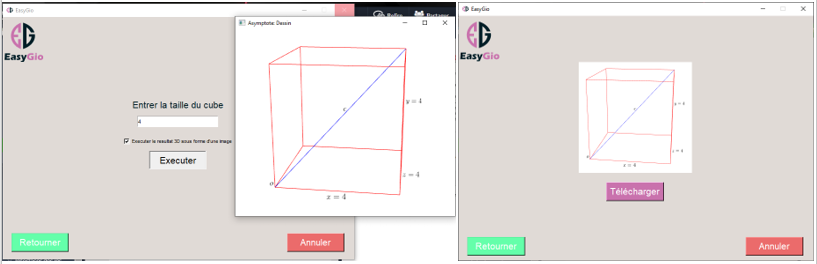
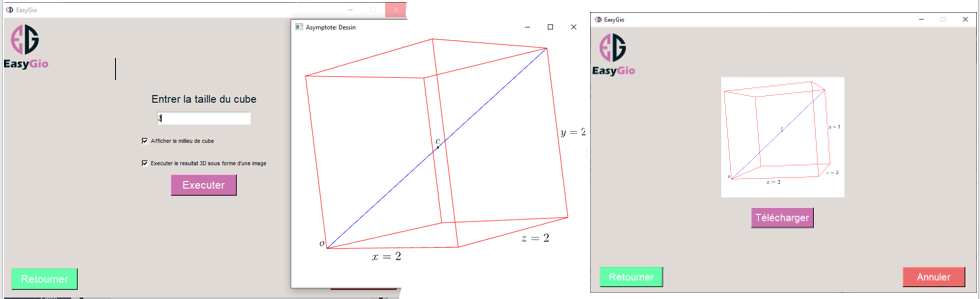
Last version

diff --git a/main.tex b/main.tex
@@ -5,6 +5,7 @@
 \usepackage{graphicx} 
 \usepackage{fullpage}
 \usepackage{hyperref}
+\usepackage{tabularx}
 \usepackage{xcolor}
 \newcommand{\link}[1]{{\color{blue}\href{#1}{#1}}}
 \usepackage{array,multirow,makecell}
@@ -43,7 +44,7 @@ Autour du langage de dessin vectoriel asymptote} \\[0.4cm]
 \end{minipage}
 \vfill
 % Bottom of the page
-{\large 12/04/2021}
+{\large Année universitaire 2020/2021}
 \end{center}
 \end{titlepage}
 \begin{figure}
@@ -226,30 +227,101 @@ emissivepen=black specularpen=black));}\\
     \includegraphics{images/Des6.png}
 \end{center}
 \newpage
-\section{Cadre de projet}
-\subsection{Objectifs du projet}
+\section{La démarche de projet}
+\subsection{Préparation et analyse}
+Notre objectif principale de ce projet est d'aider les élèves du lycée et leurs enseignant à illustrer les notions de géométrie et surtout dans l'espace.\\
+Aujourd'hui des nombreux écoles sont fermées, et tous les cours en salle de classe ont été transférés en ligne, dans le cadre des mesures visant à contenir tout danger de propagation du COVID-19. Donc, l’enseignement en ligne est une précaution importante pour s’assurer de limiter les possibilités de transmission du virus. C’est la période de l’école à la maison pour de nombreux enfants. C’est-à-dire, que chaque famille a accès aux ressources en ligne : des exercices et même des «classes virtuelles» en visioconférence.\\
+Les enseignants utilisent les ordinateurs pour préparer des présentations ou des lectures. Les ordinateurs sont utilisés pour effectuer des exercices ou diriger des examens. Dans le domaine de la recherche les ordinateurs sont utilisés pour accéder aux journaux, aux conférences et aux travaux des recherches tenues dans le monde entier.\\
+Et pour que notre application soit utile, pratique et accessible, EasyGio doit être sous forme d'une application bureau pour faciliter à l'enseignant ou l'élève l'utilisation de note application. 
+\subsection{Définition des objectifs}
+Pour que notre application soit utile, les objectifs d'EasyGio doivent être « SMART », à savoir :
+\begin{itemize}
+    \item[$\bullet$] \textbf{Spécifique : }Crée une application rapide, simple et très accessible qui permet à l'utilisateur de tracer des courbes, des graphe 2D sous Image PNG et des figures en 3D.
+    \item[$\bullet$] \textbf{Mesurable : }Avec la technologie Git Il était possible de mesurer notre avancement jusqu'à la réalisation complète de notre application EasyGio.
+    \item[$\bullet$] \textbf{Acceptable : }l’objectif était suffisamment complexe pour être motivant et suffisamment petit pour être atteignable et accepté.
+    \item[$\bullet$] \textbf{Réaliste : }Malgré les difficultés de ce projet et en particulier le fait de traiter un sujet d’actualité avec peu de documentation, nous sommes parvenues à nous familiariser avec ces nouvelles technologies liées au Asymptote
+    \item[$\bullet$] \textbf{Temporellement définit : }Notre objectif était bien défini dans le temps après quant a pu fixer une date butoir est indispensable pour pouvoir mesurer l’avancement de la réalisation.
+\end{itemize}
+\subsection{Conception et spécifications}
+\subsubsection{Contexte pédagogique}
+Ce travail s'inscrit dans le cadre du Projet de Fin d'Étude pour l'obtention du diplôme de l'École Supérieur de Technologie Safi, filière Génie Informatique. Au cour de la réalisation de notre projet, nous étions indispensable de mettre en place nos compétences acquises tout long de notre parcours académique pour parvenir à résoudre efficacement les problèmes obtenu à travers des solutions pratique répondant aux besoins de notre sujet du PFE.
+\subsubsection{Acteurs du projet}
+\begin{table}[!h]
+    \centering
+    \begin{tabularx}{0.9\textwidth}{
+    | >{\centering\arraybackslash}X 
+    | >{\centering\arraybackslash}X |}
+    \hline
+        \textbf{Acteur}&\textbf{Fonction}\\
+    \hline
+        Maitre d'oeuvre 1 : El Mehdi El Aine & Etudiant à EST safi\\
+    \hline    
+        Maitre d'oeuvre 2 : Hamza Hamdoun & Etudiant à EST safi\\
+    \hline
+        Maitre d'oeuvre 3 : Abdrahman El Hadere & Etudiant à EST safi\\
+    \hline
+        Encadrant pédagogique & Mr.Hamid Maarouf\\
+    \hline 
+        Tuteur & Lbakali Hanane\\
+    \hline    
+    \end{tabularx}
+    \caption{Les Acteurs du projet}
+    \label{tab: Les Acteurs du projet}
+\end{table}   
+\newpage
+\subsubsection{Expression du besoin}
 Ce projet vise principalement à améliorer un service qui aide les élèves du lycée et leurs enseignant à illustrer les notions de géométrie. L’objectif de ce projet est de déployer une application Windows qui se caractérise par une haute disponibilité ,une simplicité et la multiplication des choix.Par conséquence cela revient à déployer une application EasyGio qui répond aux exigences suivants:
 \begin{itemize}
     \item Faciliter l'utilisation de l'application EasyGio pour le client.
     \item Éviter les tâches répétitives et faciliter la personnalisation EasyGio.
     \item Inclure des multiples fonctions pour la conceptions des différents figures.
-    \item Conception d'une interface graphique simple et facile à utiliser.\\
+    \item Conception d'une interface graphique simple et facile à utiliser.
 \end{itemize}
 \begin{figure}[!h]
     \centering
-    \includegraphics[width=13cm]{images/EasyGioServices.png}
-    \caption{Processus souhaité de déploiement des services EasyGio}
-    \label{fig:Processus souhaité de déploiement des services EasyGio}
+    \includegraphics[width=14cm]{images/Expression du besoin.png}
+    \caption{Diagramme bête à cornes}
+    \label{fig:Diagramme bête à cornes}
 \end{figure}
-\subsection{Planification du projet}
+\subsubsection{Contraintes à respecter}
 Notre projet est loin d’être classique. En effet, il fait appel aux technologies non abordées le long de notre parcours scolaire. Du coup, une planification rigoureuse s’est imposée pour prévoir le déroulement du projet. Grâce aux réunions tenues avec notre encadrante , nous avons été éclairés sur les différentes étapes du projet ainsi que leurs séquencements. Le projet est partagé en trois grandes étapes : la première est une phase de documentation dont les objectifs est de bien assimiler les nouveaux concepts concernant les langages de programmation Asymptote et Python, d’autre part de délimiter le périmètre du projet au niveau
 fonctionnel qu’au niveau technique. La seconde partie est consacrée à la conception de la solution, quant à la troisième étape, elle traite la mise en œuvre de la solution à travers la réalisation, les tests, et le déploiement.\\
-Le projet a débuté le 1 mars pour une durée de 3 mois. Il en résulte le planning suivant :
+Notre projet doit être exécuter et fournit tout en tenant compte des contraintes qui doivent être anticipés afin d'être gérées et déposées pour ne pas bouleverser le bon déroulement du projet
+\begin{itemize}
+    \item[$\bullet$] \textbf{Contraintes temporelles : }Contrainte majeure qui réside dans la durée nécessaire pour achever notre projet vu la diversité des taches qui sont affectées.\\
+    Le projet a débuté le 1 mars pour une durée de 3 mois. Il en résulte le planning suivant :
+\end{itemize}
+\newpage
 \begin{figure}[!h]
     \centering
-    \rotatebox{-90}{\includegraphics[width=23cm]{images/Ganter.png}}
+    \rotatebox{-90}{\includegraphics[width=22cm]{images/Ganter.png}}
     \caption{Diagramme de Gantt}
     \label{fig:Diagramme de Gantt}
+\end{figure}
+\newpage
+\renewcommand{\labelitemi}{\textbullet}
+\renewcommand\labelitemii{\textperiodcentered}
+\begin{itemize}
+    \item \textbf{Contraintes de réalisation : }
+    \begin{itemize}
+        \item Le respect de la période fixée pour la finalisation du projet.
+        \item Le travail réalisé dans chaque partie doit être valider par notre tuteur. 
+    \end{itemize}\smallskip
+    \item \textbf{Contraintes pédagogiques : }
+    \begin{itemize}
+        \item Appliquer les techniques et méthodes en informatique ainsi que la gestion de projet. 
+        \item Apprendre d'être autonomes dans la réalisation d'un projet.
+        \item Apprendre à collecter les information nécessaire au déroulement du projet.
+    \end{itemize}    
+\end{itemize}
+\subsection{Réalisation et Évaluation}
+A la fin du notre projet on a obtenu une application EasyGio rapide simple et très accessible qui permet l’utilisateur de tracer des courbes, des graphe 2D sous Image PNG et des figures en 3D avec la possibilité de le transférer sous Des images PNG après que le client à bien sélectionner la position d’image voulu. Et à la fin de la session l’utilisateur peut transfère son image à son PC en le télécharger après la sélection de l’emplacement du ficher.\\
+Après Des multiples tests par des différents utilisateurs on a bien corrigé tout les bug obtenu sous nos tests.
+\begin{figure}[!h]
+    \centering
+    \includegraphics[width=14cm]{images/EasyGioServices.png}
+    \caption{Les services proposés par EasyGio}
+    \label{fig:Les services proposés par EasyGio}
 \end{figure}
 \chapter{Conception et réalisation}
 \section{Diagramme des cas d'utilisations}
@@ -299,8 +371,8 @@ Une structure de répartition du travail (WBS) est une dé-construction visuelle
 \begin{figure}[!h]
     \centering
     \includegraphics[width=15cm]{images/WBS.png}
-    \caption{WBS diagram}
-    \label{WBS diagram}
+    \caption{WBS diagramme}
+    \label{WBS diagrammme}
 \end{figure}
 \newpage
 \section{Environnements de travail et choix techniques}
@@ -313,7 +385,7 @@ Les principaux logiciels utilisé durant la conception d'EasyGio sont:
     \item  \textbf{Microsoft Office :} World 2019 pour la rédaction du cahier des charges.
     \item  \textbf{Gantter project :} Pour la rédaction du diagramme gant.
     \item  \textbf{Adobe :} utilisé pour le traitement des images utilisées tout le long du projet que ce soit dans la conception du logo dans le rapport élaboration du cahier de charge ou le développement de l’application.
-    \item  \textbf{Draw.io:} Pour la rédaction des différents diagrammeS et organigrammes pour le rapport.
+    \item  \textbf{Draw.io:} Pour la rédaction des différents diagrammes et organigrammes pour le rapport.
 \end{itemize}
 \subsection{Langage de programmation et technologies utilisés}
 Durant notre travail, on a utiliser plusieurs outils et technologies :
@@ -337,7 +409,7 @@ On a utilisé la bibliothèque Tkinter pour la conception d'interface graphique 
     \label{Tkinter}
 \end{figure}
 \subsubsection{OS}
-Le module OS de Python fournit des fonctions d'interaction avec le système d'exploitation. Le système d'exploitation relève des modules utilitaires standard de Python. Ce module offre un moyen portable d'utiliser les fonctionnalités dépendant du système d'exploitation. Les modules "os" et "os.path" incluent de nombreuses fonctions pour interagir avec le système de fichiers.\\
+Le module OS de Python fournit des fonctions d'interaction avec le système d'exploitation. Le système d'exploitation relève des modules utilitaires standard de Python. Ce module offre un moyen portable d'utiliser les fonctionnalités dépendant du système d'exploitation. Les modules "os" et "os.path" incluent de nombreuses fonctions pour interagir avec le système de fichiers.
 \subsubsection{Time}
 Le module Time fournit différentes fonctions liées au temps.On a utilisé ce module pour la fonction time.sleep(), cette fonction permet au programme d'obtenir un retard de temps jusqu'à le fichier Dessin.asy s'exécute en donnant l'image Dessin.png a afficher sur dernier interface du programme. 
 \newpage
@@ -347,9 +419,18 @@ La bibliothèque supporte plusieurs formats de fichier, parmi lesquels PNG, JPEG
 On a utilisé cette bibliothèque pour le traitement et l'affichage des images sur notre application EasyGio ,l'affichage du logo sur les différents pages d'EasyGio et l'affichage du résultat à la fin d'exécution du programme Dessin sous PNG.
 \begin{figure}[!h]
     \centering
-    \includegraphics[width=10cm]{images/pillow-logo-248x250.png}
+    \includegraphics[width=7cm]{images/pillow-logo-248x250.png}
     \caption{Pillow}
     \label{fig:Pillow}
+\end{figure}
+\subsubsection{SymPy}
+SymPy est une bibliothèque Python pour les mathématiques symboliques. Il vise à devenir un système d'algèbre d'ordinateur complets (CAS) tout en maintenant le code aussi simple que possible afin d'être compréhensible et facilement extensible.
+On a utilisé cette bibliothèque pour le calcule des dérivées des fonctions.
+\begin{figure}[!h]
+    \centering
+    \includegraphics[width=7cm]{images/SymPy.png}
+    \caption{SymPy}
+    \label{fig:SymPy}
 \end{figure}
 \chapter{Présentation de l'application}
 \section{Interface d'accueil}
@@ -361,43 +442,44 @@ On a utilisé cette bibliothèque pour le traitement et l'affichage des images s
 \end{figure}
 Cette interface représente la page d'accueil sur laquelle on peut démarrer notre session en appuyant sur la bouton Démarrer.
 \newpage
-\section{Interfaces de choix de section}
+\section{Interface de choix de section}
 \begin{figure}[!h]
     \centering
     \includegraphics[width=12cm]{images/Interface2.PNG}
-    \caption{Interfaces de choix de section}
-    \label{fig:Interfaces de choix de section}
-\end{figure}\\
+    \caption{Interface de choix de section}
+    \label{fig:Interface de choix de section}
+\end{figure}
 Depuis cette interface on peut choisir la partie ou la section voulu.\\
 Si on choisit la partie des fonctions on va être rédiger vers une nouvelle page pour choisir le type du fonction Définit ou In-Définit.\\
 Et si on choisi la partie de Géométrie dans l'espace on va être rédiger vers nouvelle page pour choisir la partie souhaiter Un sphère, un cube ou la partie des vecteurs.
-\section{Interface de choix des sous parties}
+\section{Interfaces de choix des sous parties}
 \begin{figure}[!h]
     \centering
     \includegraphics[width=15cm]{images/TypesCaptures.PNG}
-    \caption{Interface de choix des sous parties}
-    \label{fig:Interface de choix des sous parties}
+    \caption{Interfaces de choix des sous parties}
+    \label{fig:Interfaces de choix des sous parties}
 \end{figure}
 Depuis ces interfaces on peut choisir la sous partie des fonctions et d'espace géométrique.\\
 Chaque bouton nous dirige vers une nouvelle page pour saisi les paramètres requit pour chaque diffèrent type.
 \newpage
 \section{Interfaces des insertion des paramètres}
-\subsection{Interface des fonctions}
+\subsection{Interfaces des fonctions}
 \begin{figure}[!h]
     \centering
-    \includegraphics[width=14cm]{images/InputesInter.PNG}
-    \caption{Interface d'insertion des paramètres des fonctions}
-    \label{fig:Interface d'insertion des paramètres des fonctions}
+    \includegraphics[width=15cm]{images/InputesInter.PNG}
+    \caption{Interfaces d'insertion des paramètres des fonctions}
+    \label{fig:Interfaces d'insertion des paramètres des fonctions}
 \end{figure}
 Depuis ces deux interfaces l'utilisateur peut saisir les paramètres des fonction.\\
-L'interface à gauche est celle du fonction définit sur la quelle le client doit insérer une fonction d'un seul variable $x$. Et après en cliquant sur la bouton Exécuter le client va être rédiger sur la dernier interface du programme pour l'affichage de la figure sous forme image.\\
+L'interface à gauche est celle du fonction définit sur la quelle le client doit insérer une fonction d'un seul variable $x$, l'utilisateur peut choisir l'affichage de la courbe de la fonction dérivée avec le résultat ou non en cochant la case d'affichage. Et après en cliquant sur la bouton Exécuter le client va être rédiger sur la dernier interface du programme pour l'affichage de la figure sous forme image.\\
 L'interface à droit est celle du fonctions Indéfini et sur la quelle l'utilisateur doit saisir une fonction de deux variable $x$ et $y$ et les sommets de la courbe.Et après en cliquant sur la bouton Exécuter le client va être rédiger sur la dernier interface du programme pour l'affichage de la figure sous forme image.\\
 \begin{figure}[!h]
     \centering
-    \includegraphics[width=14cm]{images/Fonction.PNG}
+    \includegraphics[width=15cm]{images/Fonction.PNG}
     \caption{Exécution d'une fonction (Courbe)}
     \label{fig:Exécution d'une fonction (Courbe)}
-\end{figure}
+\end{figure}\\
+C'est deux interfaces sont l'exécution de la fonction $f(x)=3x^2+2x+2$, l'interface à gauche est celle de l'exécution normal de la fonction et l'interface à droite est l'exécution de la fonction avec l'affichage du courbe de la fonction dérivée.
 \newpage
 \subsection{Interfaces de Sphère et de Cube}
 \begin{figure}[!h]
@@ -407,7 +489,7 @@ L'interface à droit est celle du fonctions Indéfini et sur la quelle l'utilisa
     \label{fig:Interfaces de Sphère et de Cube}
 \end{figure}
 L'interface à gauche est l'interface pour l'exécution de la figure sphère et sur la quel l'utilisateur a plusieurs choix et options à ajouter, le premier est pour l'affichage des axes X,Y et Z pour le repérage dans le plan et dans l'espace.Le deuxième choix et l'option d'obtenir le résultats final sous forme d'une image PNG à la fin d'exécution du programme. L'utilisateur peut choisir les deux choix à la fois ou un seul choix ou exécuter le programme sans aucun choix.\\
-L'interface à droite est celle du Cube où l'utilisateur doit saisir d'abord la taille du cube et qui doit être un nombre entier et supérieur à 0 sinon le système va afficher un erreur.\\
+L'interface à droite est celle du Cube où l'utilisateur doit saisir d'abord la taille du cube et qui doit être un nombre entier et supérieur à 0 sinon le système va afficher un erreur. avec la possibilité d'afficher le milieu du cube en cochant la première case.\\
 \begin{figure}[!h]
     \centering
     \includegraphics{images/NbError.PNG}
@@ -422,6 +504,14 @@ La deuxième bouton et le choix d'obtenir le résultat sous forme d'une image PN
     \caption{Exécution d'une figure 3D (cube)}
     \label{fig:Exécution d'un figure 3D (cube)}
 \end{figure}\\
+Avant le lancement du programme le système affiche un message texte  avec laquelle l'utilisateur va savoir comment transformer le programme 3D à une photo.\\
+\begin{figure}[!h]
+    \centering
+    \includegraphics[width=11cm]{images/3DToImage.PNG}
+    \caption{Comment transformer une Figure 3D à une image}
+    \label{fig:Comment transformer une Figure 3D à une image}
+\end{figure}
+\newpage
 \subsection{Interface de choix des figures pour les vecteurs}
 \begin{figure}[!h]
     \centering
@@ -435,6 +525,7 @@ Sur cette interface l'utilisateur peut choisit l'exécution d'une seule figure s
     \item Addition de deux vecteurs par règle du triangle.
     \item Multiplication de deux vecteurs.
 \end{itemize}
+\newpage
 \subsection{L'interface d'affichage de résultat par Image}
 Sur cette dernier interface d'EasyGio il y'a l'affichage de la figure et l'utilisateur peut télécharger sa figure sous forme PNG en cliquant sur la bouton Télécharger avec la quel une fenêtre va être afficher où il peut choisir la position où le fichier Dessin.png va être télécharger.\\
 \begin{figure}[!h]
@@ -450,7 +541,15 @@ Si non il va afficher une notification que le fichier a bien été télécharger
     \includegraphics[width=14cm]{images/nots.PNG}
     \caption{EasyGio Info et Erreur fenêtres}
     \label{fig:EasyGio Info et Erreur fenêtres}
-\end{figure}\\
+\end{figure}
+\chapter*{Conclusion Générale et Perspectives}
+Étape indispensable lors des cours traditionnels de mathématiques, la géométrie a, de tout temps, souffert d'une réputation de matière difficile ! Des droits parallèles que l'on n'arrive pas à tracer, en passant par une intersection difficile à déterminer, ou des cercles peu assurés, la géométrie est parfois repoussée par les élèves.\\
+Pourtant, la géométrie est particulièrement utile dans la vie de tous les jours et permet d'accéder à des carrières prestigieuses comme ingénieur ou chercheur en mathématiques. Autant de professions qui, si elles ne semblent pas être directement liées au quadrilatère et à la demi-droite, le sont bien plus qu'on ne le pense !\\
+De plus, la géométrie subit une réputation de branche assez fermée, de domaine dédiée aux matheux et aux matheuses. Contrairement aux apparences, cette branche des maths est accessibles à tous les niveaux et peut même s'avérer être ludique, faisant travailler à la fois sa logique et sa réflexion. Un peu comme les jeux des enfants quoi !\\
+\par Les solutions de notre application EasyGio sont des outils indispensables pour répondre à ces exigences. En effet, EasyGio vous permet de construire des multiple figures rapidement et en simple clics. l'application et facilement accessible . Vous pouvait aussi construire des figures 3D et les exporter sous des images PNG avec toute rapidité.\\
+\par Malgré les difficultés rencontrées durant ce projet et en particulier le fait de traiter un sujet d’actualité avec peu de documentation, nous sommes parvenues à nous familiariser avec ces nouvelles technologies liées au Asymptote.\\
+Et crée une application qui va très faciliter l'illustration des notions de géométrie et surtout dans l'espace à travers notre système des figures 3D en utilisant le langage graphique vectoriel Asymptote pour les enseignants et ces élevés.\\ 
+\addcontentsline{toc}{chapter}{Conclusion Générale et Perspectives}
 \chapter*{Webographie}
 \begin{enumerate}
     \item Google. Le forum officiel d'asymptote pour les documentations\\
@@ -465,6 +564,10 @@ Si non il va afficher une notification que le fichier a bien été télécharger
     URL: \link{https://www.researchgate.net/publication/242776997_Asymptote_The_Vector_Graphics_Language}
     \item Asymptote. (Vector Graphics Language)\\
     URL: \link{https://artofproblemsolving.com/}
+    \item Links to many external resources, including an excellent user-written Asymptote tutorial.\\
+    URL : \link{https://asymptote.sourceforge.io/links.html}
+    \item A quick reference card for Asymptote.\\
+    URL : \link{https://asymptote.sourceforge.io/asyRefCard.pdf}
     \item Google. Le forum officiel de python pour la documentation de la bibliothèque Tkinter\\
     URL: \link{https://docs.python.org/3/library/tkinter.html}
     \item Python Doctor. Interface graphique Tkinter python\\
@@ -473,6 +576,10 @@ Si non il va afficher une notification que le fichier a bien été télécharger
     URL: \link{https://www.tutorialspoint.com/python/python_gui_programming.htm}
     \item Realpython. The perfect guid for Tkinter in python\\
     URL: \link{https://realpython.com/python-gui-tkinter/}
+    \item Keepscool. Un site web pour les cours du maths au lycée pour avoir les principaux propriétés.\\ 
+    URL : \link{http://keepschool.com/fiches-de-cours/lycee/math/vecteurs.html}
+    \item Alloschool. AlloSchool est un site de support pédagogique il propose un suivi chronologique par chapitre, comprenant des cours, des exercices corrigés et des examens.\\
+    URL : \link{https://www.alloschool.com/}
     
 \end{enumerate}
 \addcontentsline{toc}{chapter}{Webographie} 
